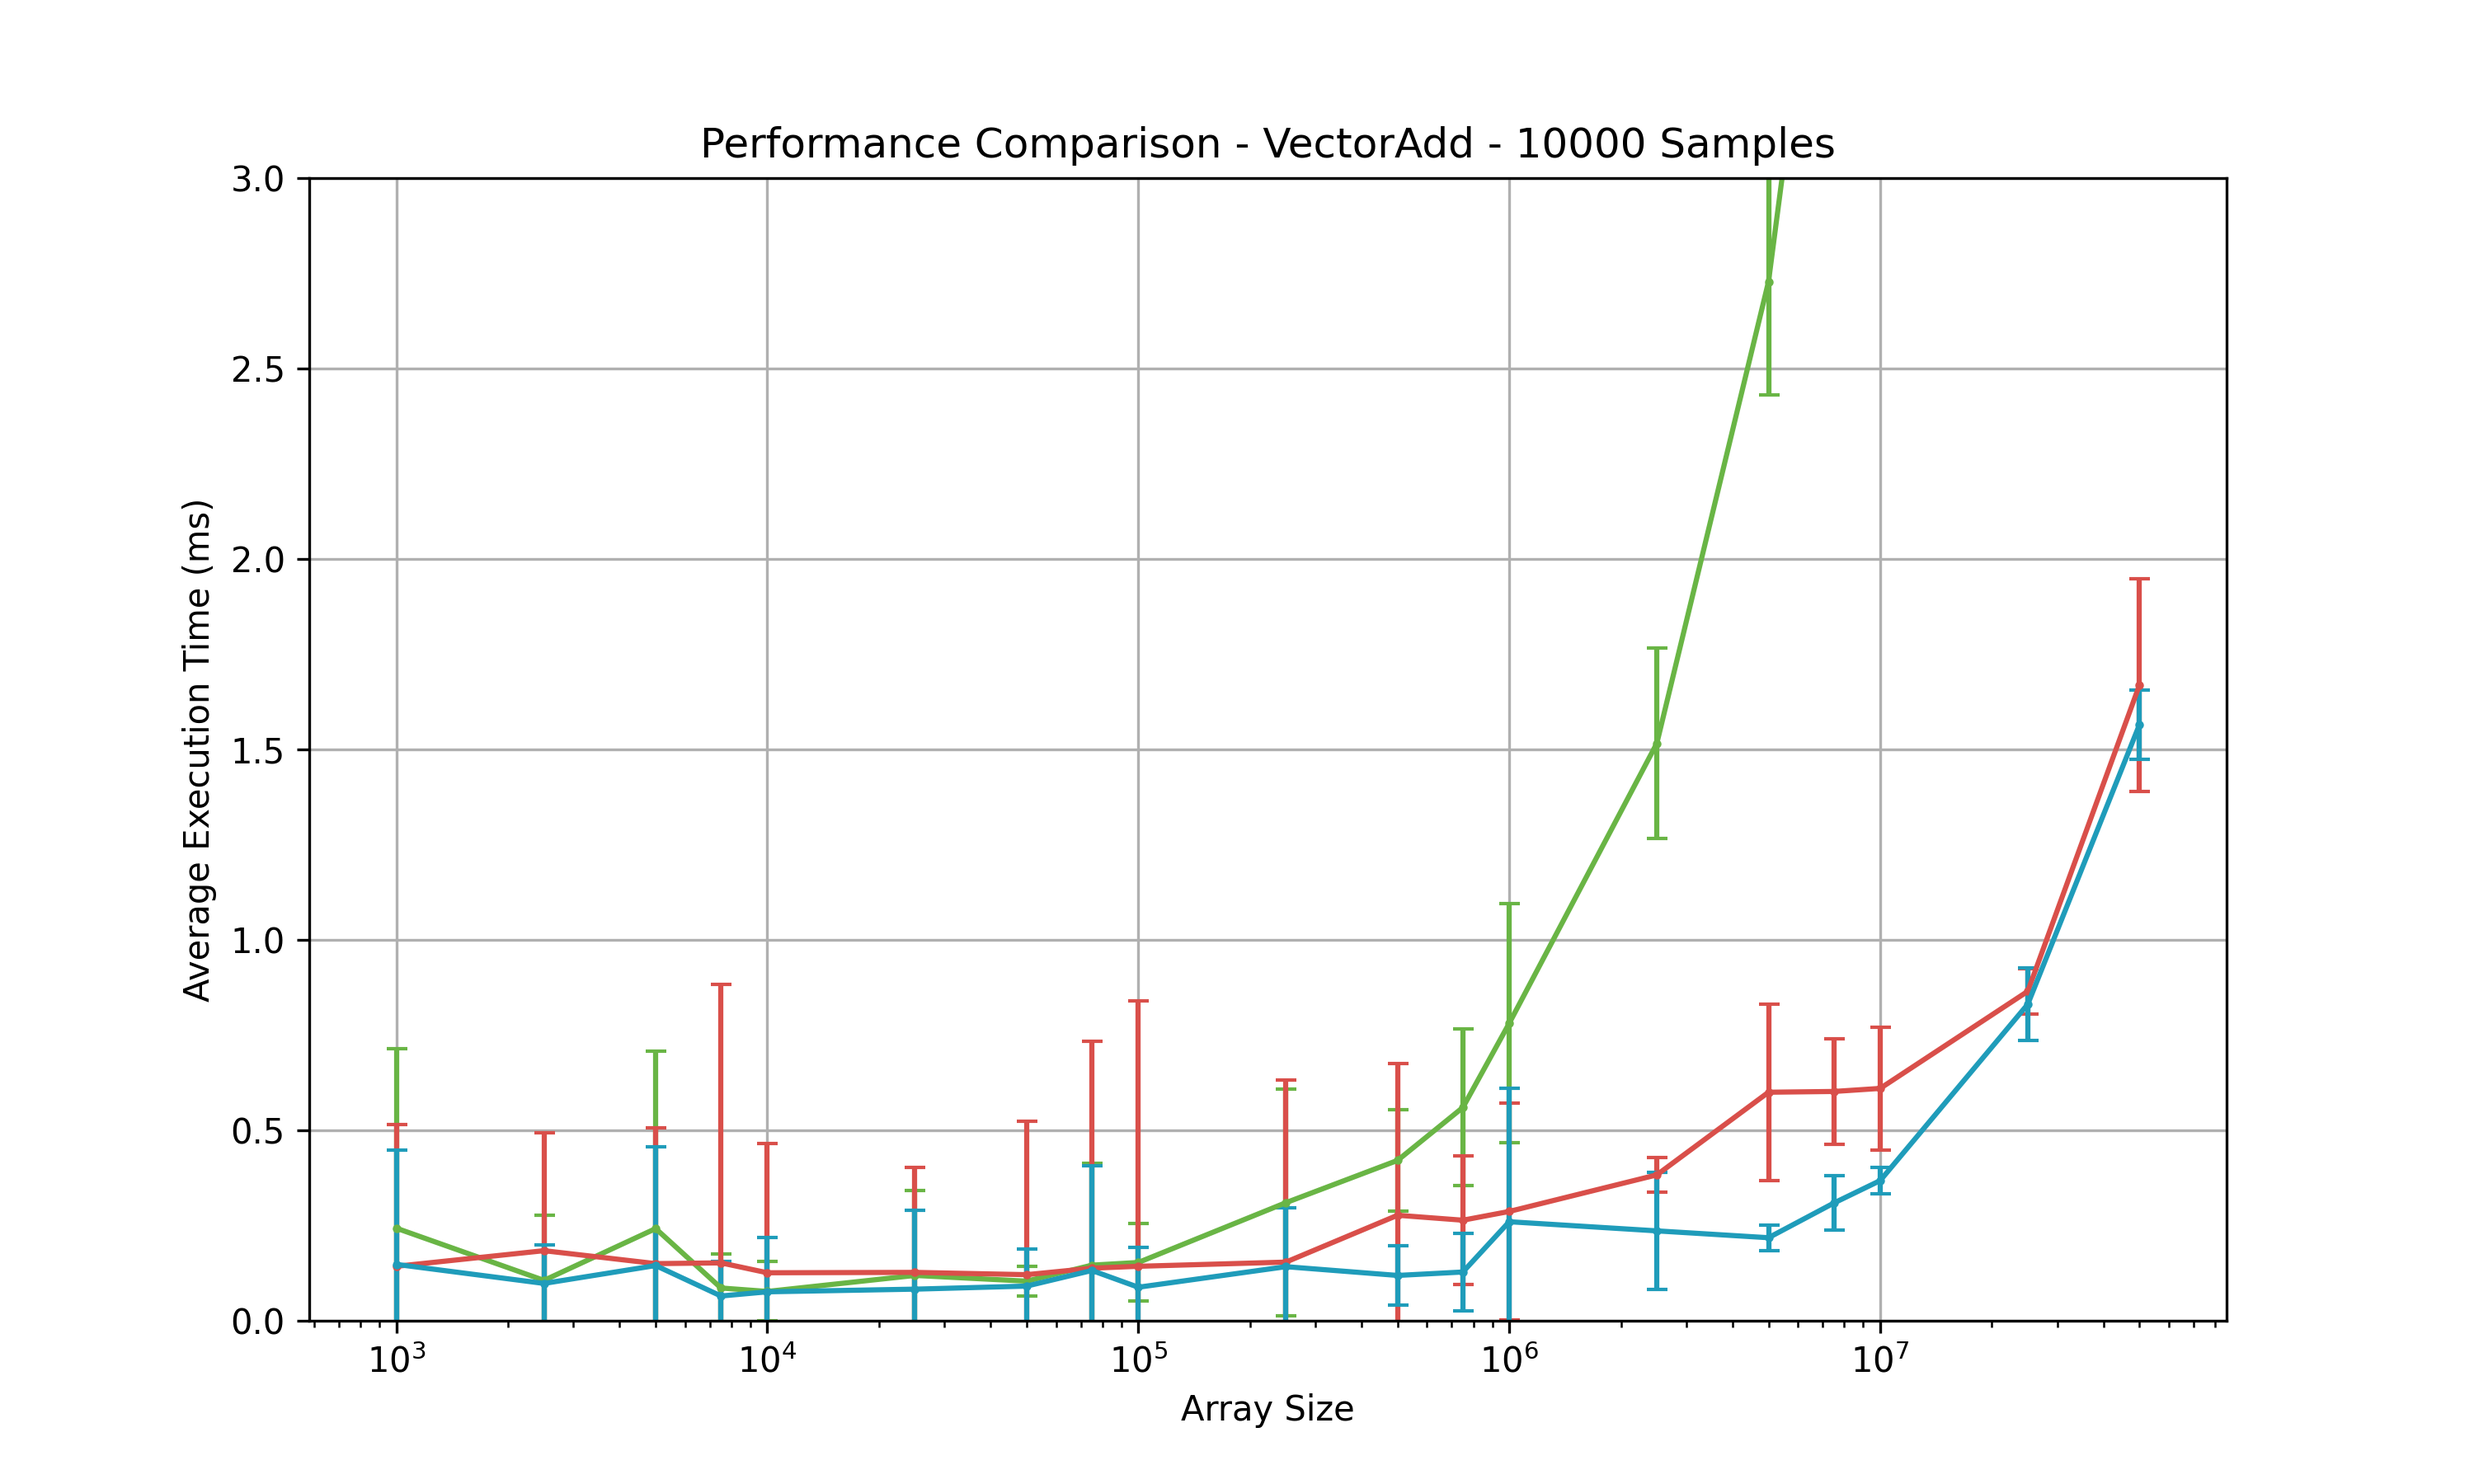
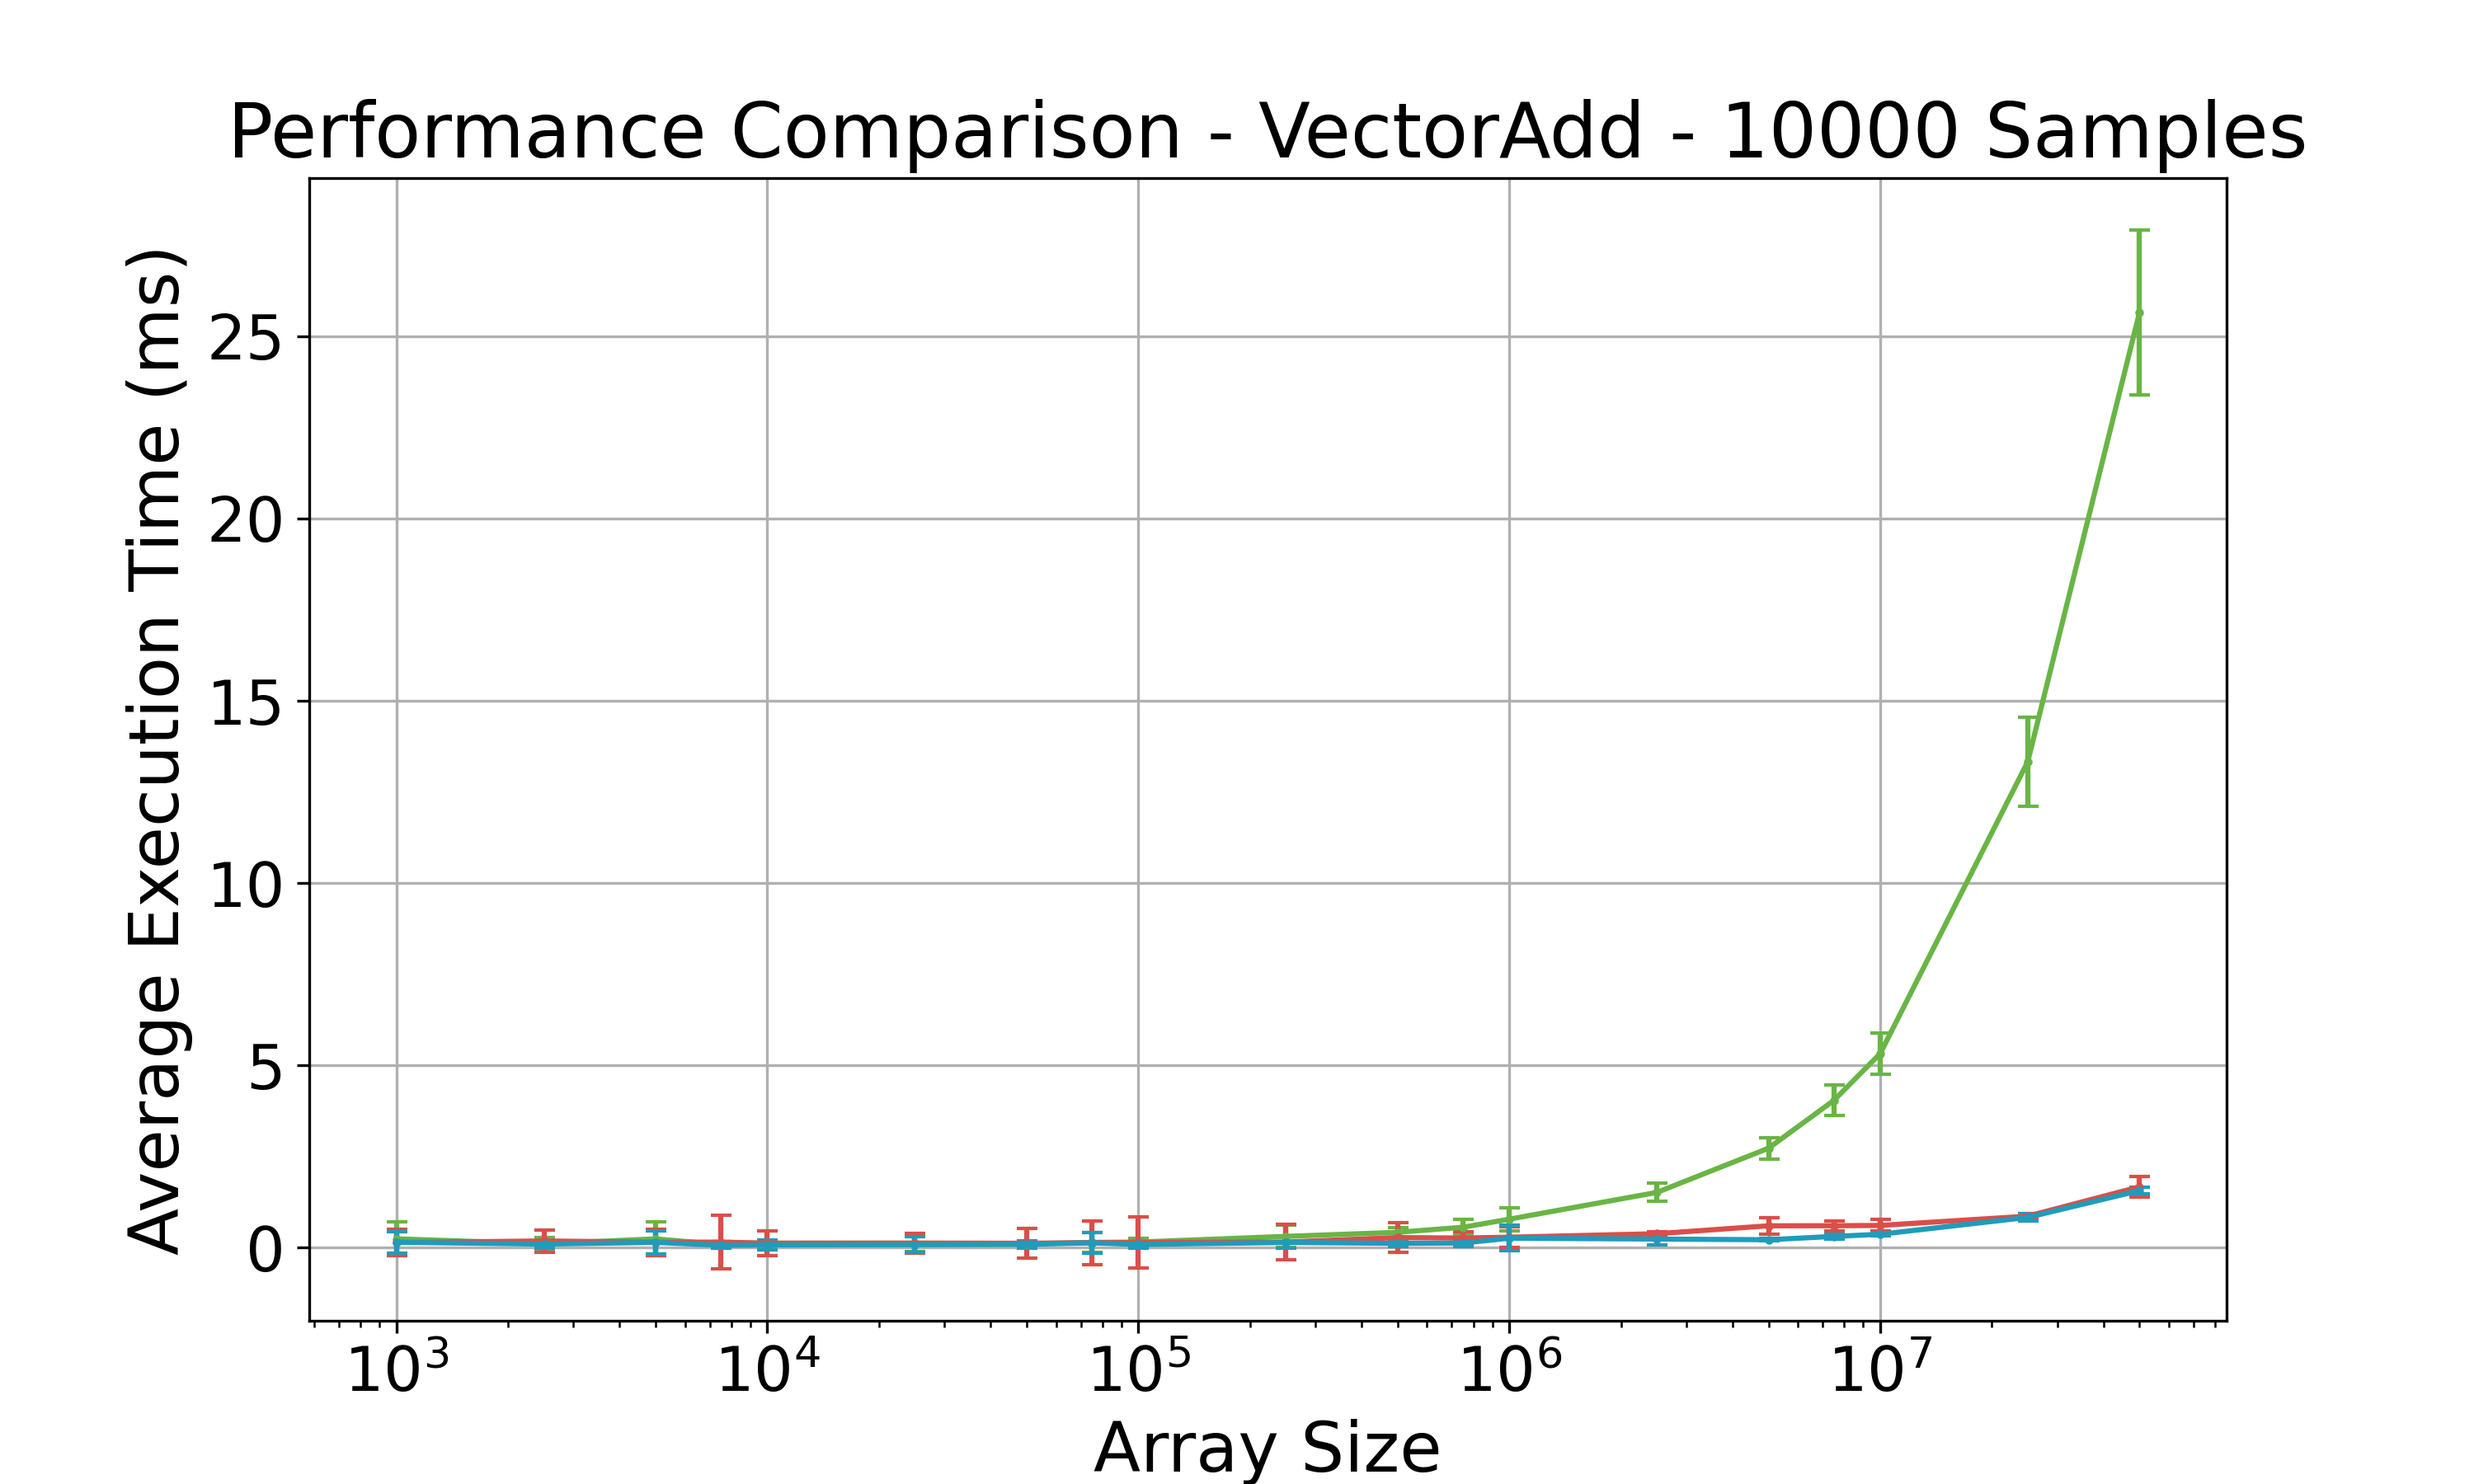
💄 Increase font size on output graphics

diff --git a/Results/main.py b/Results/main.py
@@ -7,6 +7,9 @@ import os
 GL_COLOR = (0.41, 0.71, 0.27)
 DX11_COLOR = (0.85, 0.31, 0.29)
 CUDA_COLOR = (0.12, 0.61, 0.73)
+font_size_main_title = 22
+font_size_title = 20
+font_size_ticks = 18
 
 
 def str2bool(v):
@@ -140,9 +143,9 @@ line_cuda = plt.errorbar(cuda_data['ArraySize'],
                          linestyle='-',
                          color=CUDA_COLOR,
                          markersize=3)
-plt.xlabel('Array Size')
-plt.ylabel('Average Execution Time (ms)')
-plt.title(args.title)
+plt.xlabel('Array Size', fontsize=font_size_title)
+plt.ylabel('Average Execution Time (ms)', fontsize=font_size_title)
+plt.title(args.title, fontsize=font_size_main_title)
 plt.grid(True)
 plt.xscale('log')
 
@@ -182,6 +185,10 @@ if args.xticks:
         set(gl_data['ArraySize']) | set(dx11_data['ArraySize'])
         | set(cuda_data['ArraySize']))
     plt.xticks(xticks, xticks)
+
+# Set y-ticks font size
+plt.yticks(fontsize=font_size_ticks)
+plt.xticks(fontsize=font_size_ticks)
 
 # Define the base output file name using the provided title
 base_output_file_name = f'ProfilingResult-{args.title}'
